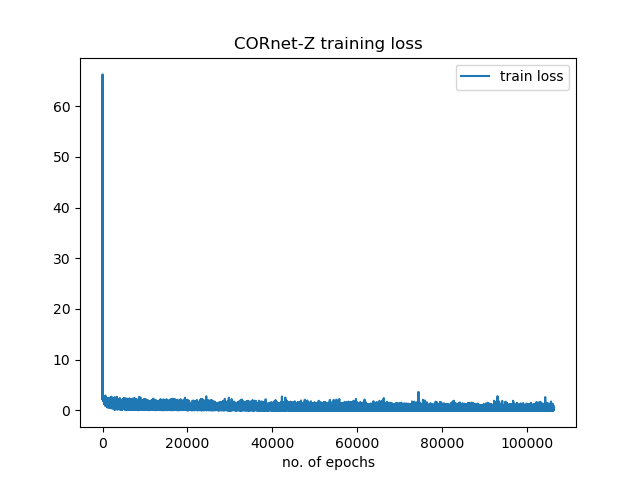
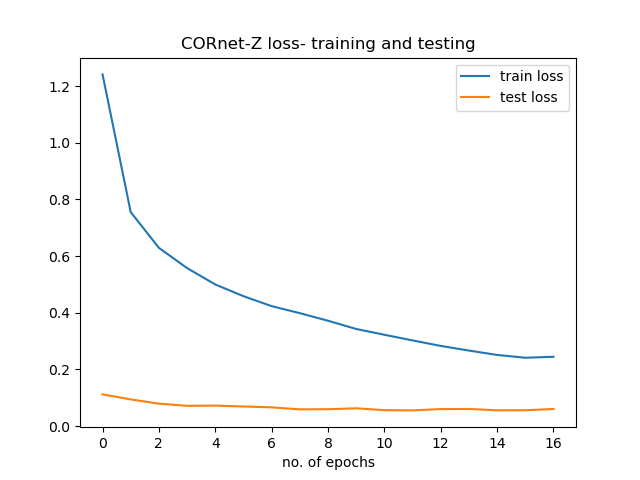
plot epoch loss

diff --git a/plot_loss.py b/plot_loss.py
@@ -5,12 +5,22 @@ import torch
 
 def plot_loss(args):
     # plotting the train and test loss and acc
-    loss = np.load(f'plots/{args.model_name}_{args.feedback_connections}_train_loss.npy', allow_pickle=True)
+    train_loss = np.load(f'plots/{args.model_name}_{args.feedback_connections}_train_loss.npy', allow_pickle=True)
+    test_loss = np.load(f'plots/{args.model_name}_{args.feedback_connections}_test_loss.npy', allow_pickle=True)
     accuracy = np.load(f'plots/{args.model_name}_{args.feedback_connections}_accuracy.npy', allow_pickle=True)
 
-    plt.plot(loss,label='train loss')
+    plt.plot(train_loss,label='train loss')
     plt.title(args.model_name + ' training loss')
     plt.xlabel('no. of minibatches')
+    plt.legend()
+    plt.savefig(f'plots/{args.model_name}_{args.feedback_connections}_batchloss.png')
+    plt.close()
+
+    train_loss = train_loss.reshape((len(test_loss), int(len(train_loss)/len(test_loss)))).mean(axis=1)
+    plt.plot(train_loss,label='train loss')
+    plt.plot(test_loss,label='test loss')
+    plt.title(args.model_name + ' loss- training and testing')
+    plt.xlabel('no. of epochs')
     plt.legend()
     plt.savefig(f'plots/{args.model_name}_{args.feedback_connections}_loss.png')
     plt.close()
